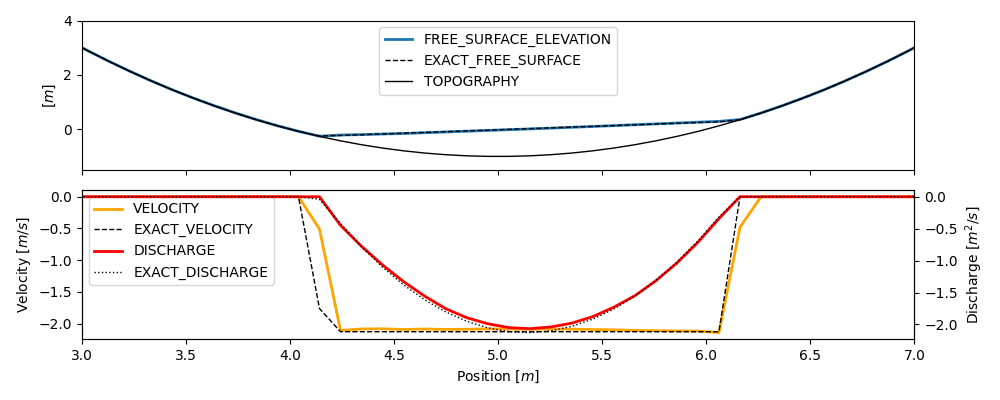
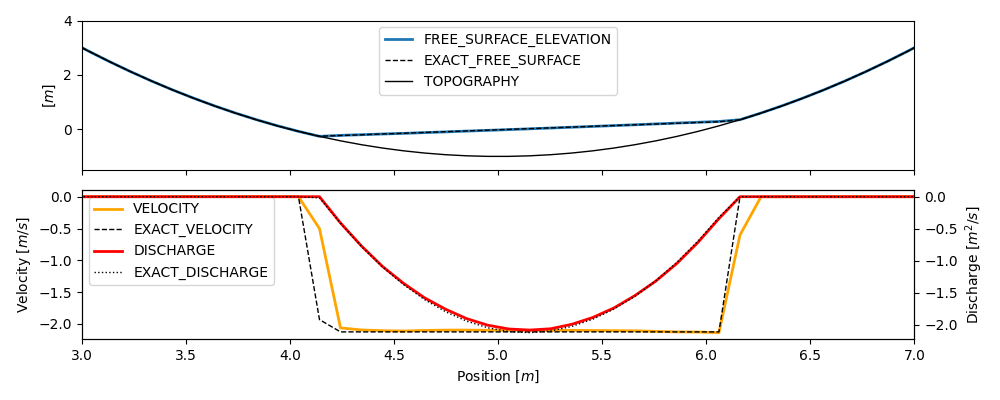
add images

diff --git a/shallow_water/validation/parabola/source/line_graph.py b/shallow_water/validation/parabola/source/line_graph.py
@@ -6,7 +6,7 @@ def ReadDataFrame(file_name):
     df.columns = df.columns.str.replace('#', '')
     return df
 
-time = '0.5'
+time = '1.0'
 
 name = 'line_graph/parabola_{}.dat'.format(time)
 df = ReadDataFrame(name)
